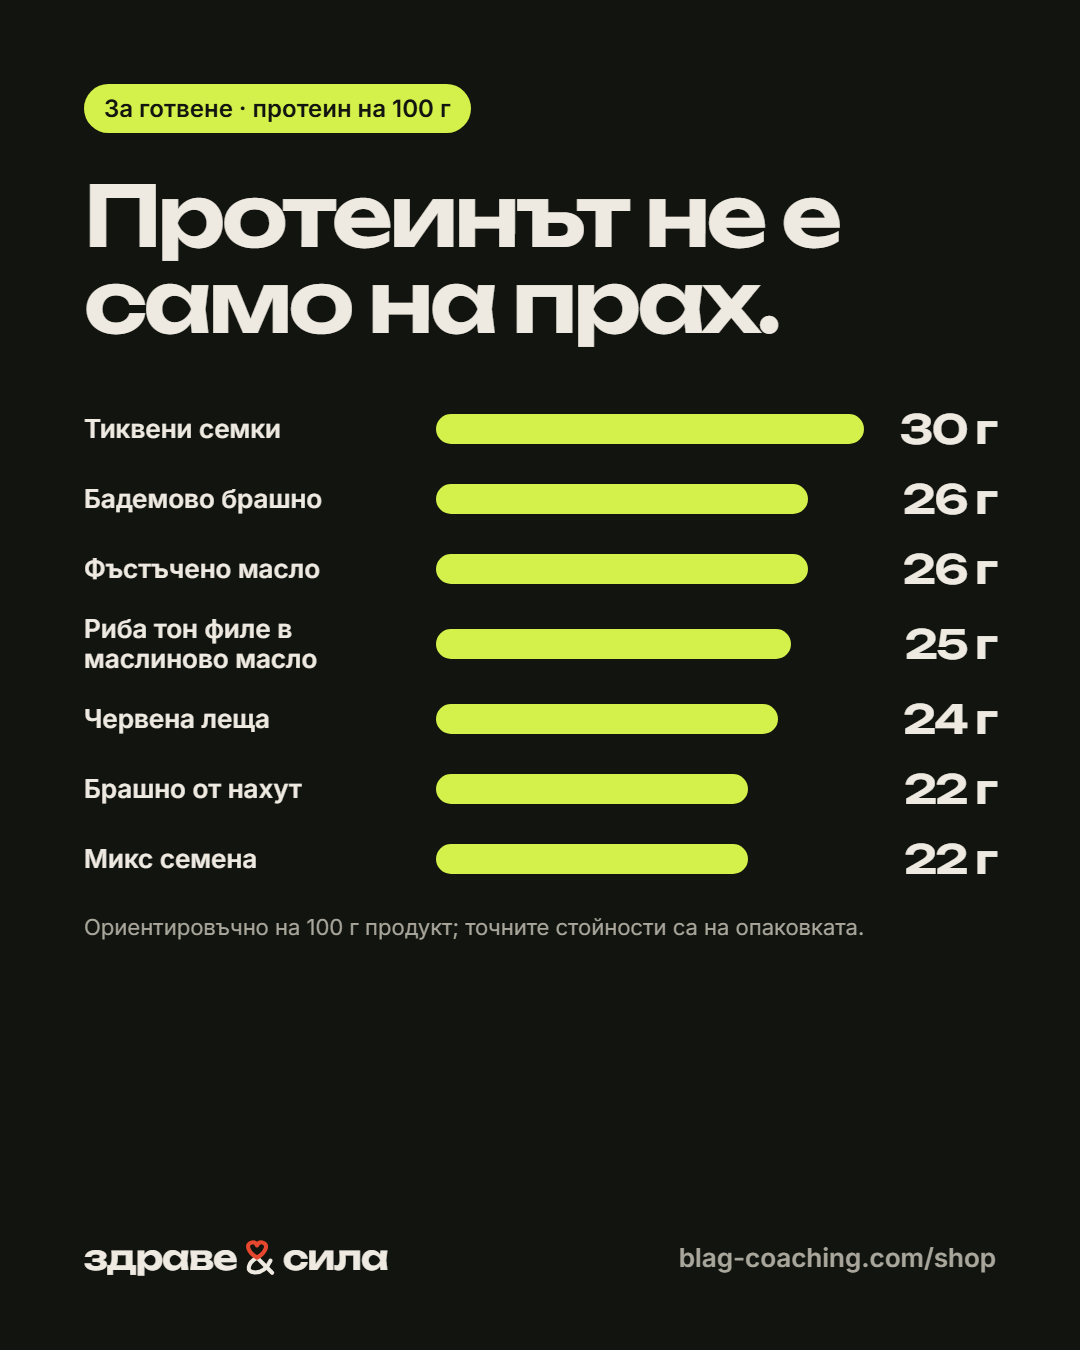
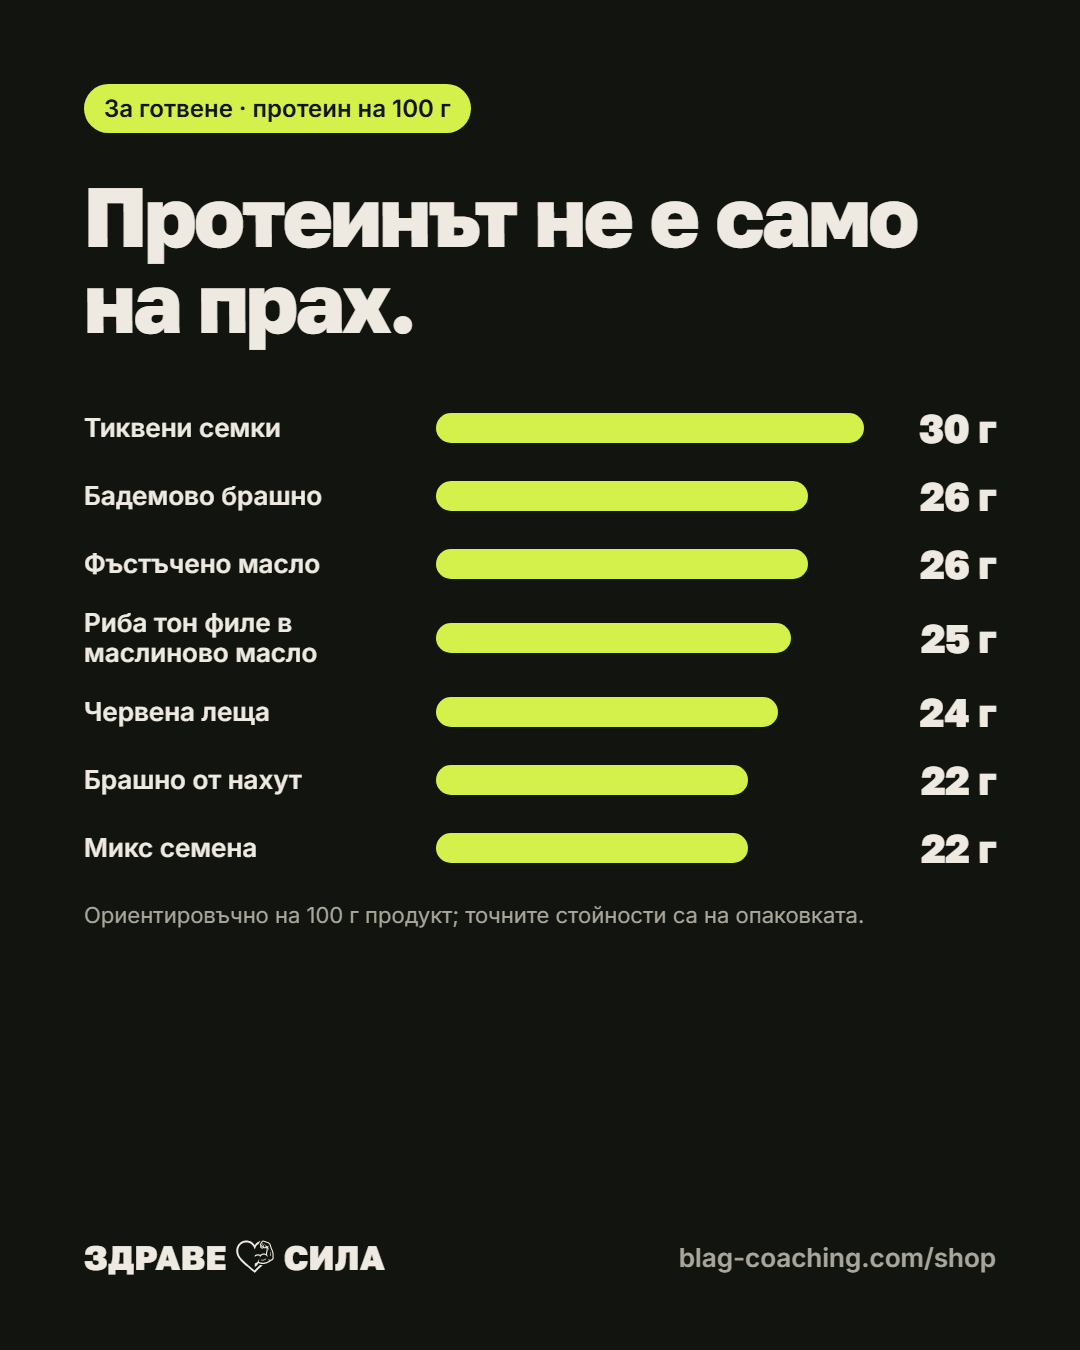
Магазин: листът е над долната лента; постовете и og.png с новия знак
- На телефона долната лента (NavBar, z-index 100) застъпваше бутона
  най-долу в листа — „Покажи N продукта“ във филтрите и „Добави“ при
  избор на вкус — и той не се натискаше. Листът вече е на 110. Двата
  mobile теста, които падаха от 24.10, минават (16/16).
- Постовете и картинката за споделяне (og.png) са със знака сърце-ръка и
  „ЗДРАВЕ И СИЛА“ в Golos Text; Unbounded и амперсандът са махнати.

Claude-Session: https://claude.ai/code/session_01EQMiKfBy3otTZWt7iKtyxo

diff --git a/shop/brand/social/posts.html b/shop/brand/social/posts.html
@@ -2,11 +2,11 @@
 <html lang="bg">
 <head>
 <meta charset="utf-8">
-<title>здраве&amp;сила — постове</title>
+<title>здраве и сила — постове</title>
 <!-- Платната за постовете и картинката за споделяне. Рисува ги
      scripts/build-shop-art.mjs; числата идват от shop_products в базата
      (window.DATA), не са написани на ръка. -->
-<link rel="stylesheet" href="https://fonts.googleapis.com/css2?family=Inter:wght@400;500;600;700&family=Unbounded:wght@500;600;700&display=swap">
+<link rel="stylesheet" href="https://fonts.googleapis.com/css2?family=Inter:wght@400;500;600;700&family=Golos+Text:wght@700;800&display=swap">
 <style>
   :root { --oat:#EEEAE1; --ink:#12140F; --ink2:#57584F; --lime:#D4F04A; --heart:#E5482F; --stage:#F6F3EC; --card:#fff; }
   * { box-sizing: border-box; margin: 0; }
@@ -14,38 +14,34 @@
   .board { position: relative; overflow: hidden; background: var(--oat); flex: none; }
   .post { width: 1080px; height: 1350px; padding: 84px; }
   .og { width: 1200px; height: 630px; padding: 64px; }
-  .disp { font-family: Unbounded, sans-serif; font-weight: 600; letter-spacing: -0.045em; line-height: 1.02; }
+  .disp { font-family: 'Golos Text', sans-serif; font-weight: 800; letter-spacing: -0.03em; line-height: 1.02; }
   .hl { background: linear-gradient(transparent 58%, var(--lime) 58%, var(--lime) 92%, transparent 92%); }
   .foot { position: absolute; left: 84px; right: 84px; bottom: 72px; display: flex; justify-content: space-between; align-items: center; font-size: 26px; font-weight: 600; color: var(--ink2); }
-  .word { display: inline-flex; align-items: center; gap: 2px; font-family: Unbounded; font-weight: 600; letter-spacing: -0.03em; color: var(--ink); }
-  .mark .h { stroke: var(--heart); } .mark .l { stroke: var(--ink); }
+  .word { display: inline-flex; align-items: center; gap: 0.22em; font-family: 'Golos Text'; font-weight: 800; letter-spacing: 0.01em; color: var(--ink); line-height: 1; }
+  .mark { fill: #173F2E; }
   .stage { background: var(--stage); border-radius: 36px; display: grid; place-items: center; overflow: hidden; }
   .stage { position: relative; } .stage img { position: absolute; inset: 4%; width: 92%; height: 92%; object-fit: contain; mix-blend-mode: multiply; }
   .chip { display: inline-block; padding: 10px 20px; border-radius: 999px; background: var(--card); font-size: 24px; font-weight: 600; }
   .lime { background: var(--lime); }
   .inkbg { background: var(--ink); color: var(--oat); }
-  .inkbg { --leg: #EEEAE1; } .inkbg .word, .inkbg .disp { color: var(--oat); } .inkbg .mark .l { stroke: var(--oat); } .inkbg .foot { color: #A9A79C; }
+  .inkbg .word, .inkbg .disp { color: var(--oat); } .inkbg .mark { fill: var(--oat); } .inkbg .foot { color: #A9A79C; }
   .photo { padding: 0; }
   .photo .ph { position: absolute; inset: 0 0 330px 0; background-size: cover; background-position: center; }
   .photo .cap { position: absolute; left: 48px; right: 48px; bottom: 48px; background: #fff; border-radius: 40px; padding: 40px 44px; }
-  .num { font-family: Unbounded; font-weight: 600; letter-spacing: -0.04em; font-variant-numeric: tabular-nums; }
+  .num { font-family: 'Golos Text'; font-weight: 800; letter-spacing: -0.02em; font-variant-numeric: tabular-nums; }
 </style>
 </head>
 <body>
 <svg width="0" height="0" style="position:absolute">
   <defs>
-    <g id="amp" fill="none" stroke-linecap="round" stroke-linejoin="round" transform="translate(-8 2)">
-      <path style="stroke:var(--leg,#12140F)" d="M118 130 C 60 162, 48 218, 102 220 C 148 222, 180 192, 200 148"/>
-      <path style="stroke:var(--leg,#12140F)" d="M118 130 L 210 222"/>
-      <path style="stroke:var(--heart)" d="M118 130 C 64 100, 44 46, 86 37 C 103 34, 114 44, 118 56 C 122 44, 133 34, 150 37 C 192 46, 172 100, 118 130"/>
-    </g>
+    <path id="zs" fill-rule="evenodd" d="M333 202C340.6 201.5 347.7 201.2 356 201.7C364.3 202.1 374.1 203.1 383 204.8C391.9 206.5 401.3 209.1 409.6 212C417.9 214.9 425.4 218.2 432.8 222C440.2 225.8 447.5 230.3 454 234.8C460.5 239.2 466 243.5 472 248.9C478 254.2 484.3 260.6 490.1 267C495.9 273.4 500.9 288.1 507 287.4C513.1 286.8 521.3 269.1 526.7 263C532 256.9 533.8 255.4 539 250.9C544.2 246.4 550 241.2 558 235.9C566 230.5 578.8 223.1 587 218.9C595.2 214.8 601.7 212.8 607.1 211L619.4 208L583.1 264C573 276.7 564.7 278.8 559 284C553.3 289.2 552.2 290.8 548.6 295C545.1 299.2 542.1 302.2 537.8 309C533.4 315.8 527.8 325.2 522.6 336L507 373.6L488.4 332C484.1 322.9 485.1 324.8 481.5 319C477.8 313.2 471.8 303.7 466.4 297C461 290.3 455.9 284.6 449 278.5C442.1 272.5 433 265.6 425 260.6C417 255.7 409 251.8 401 248.6C393 245.5 385.3 243.3 377 241.7C368.7 240 360.2 239 351 238.8C341.8 238.6 331.2 239.2 322 240.5C312.8 241.9 304.7 243.7 296 246.7C287.3 249.7 277.5 254.4 270 258.6C262.5 262.7 257.5 266.2 251 271.5C244.5 276.7 237.2 283.1 231 290C224.8 296.9 218 306.3 213.6 313C209.1 319.7 207 324.8 204.6 330C202.1 335.2 200.7 337.8 198.7 344C196.7 350.2 193.9 359.5 192.4 367C190.9 374.5 190.2 382 189.7 389C189.2 396 189.3 402 189.6 409C190 416 190.6 423.7 191.8 431C192.9 438.3 194.5 445.8 196.5 453C198.5 460.2 201.1 467.3 203.7 474C206.4 480.7 208.7 485.8 212.5 493C216.3 500.2 222.3 510.2 226.7 517C231 523.8 234.2 528 238.7 534C243.3 540 248.2 546.3 253.9 553C259.5 559.7 262.5 563.6 272.7 574C282.8 584.4 300.1 601.6 315 615.3C329.9 629 330.5 629.7 362 656.2C393.5 682.8 480 754.9 504 774.5C528 794.1 500.8 779.6 505.9 774C511.1 768.4 526.3 750.3 534.8 741C543.3 731.7 549.1 725.9 557 718.2C564.9 710.6 573.3 702.6 582 694.9C590.7 687.1 599 675.1 609 671.8C619 668.5 633.1 674.6 642 675.3L662.2 676L595 733.6C577.9 749.1 571.1 756.6 559.4 769C547.7 781.4 532.3 800 524.7 808C517.1 816 516.8 815.2 514 817.3C511.2 819.3 510.7 820.4 508 820.3C505.3 820.1 501.3 818 498 816.2C494.7 814.3 511 828.1 488 809.3C465 790.5 391.3 729.6 360 703.4C328.7 677.2 317.5 667.9 300 652.2C282.5 636.6 268 622.8 255 609.6C242 596.5 231.7 584.9 222 573.3C212.3 561.7 203.2 549.1 196.8 540C190.4 530.9 187.3 525.3 183.7 519C180 512.7 177.4 507.5 174.7 502C172.1 496.5 170.1 492 167.8 486C165.5 480 162.9 472.8 160.9 466C158.9 459.2 157.1 451.8 155.8 445C154.4 438.2 153.6 432.5 152.9 425C152.1 417.5 151.5 408.2 151.5 400C151.5 391.8 152 383.7 152.9 376C153.8 368.3 155.1 361.2 156.8 354C158.4 346.8 160.2 340.2 162.8 333C165.3 325.8 168.2 318.5 172 311C175.7 303.5 180.7 294.9 185 288.2C189.3 281.6 192.8 276.9 197.8 271C202.8 265.1 209.3 258.2 215 252.8C220.7 247.4 226.2 243 232 238.6C237.8 234.3 243.3 230.6 250 226.8C256.7 223 265 218.7 272 215.7C279 212.7 285.7 210.7 292 208.8C298.3 207 303.2 205.9 310 204.7C316.8 203.6 325.3 202.5 333 202ZM667.1 204C671 203.8 675.9 203.6 682 204.7C688.1 205.8 697.8 208.9 704 210.8C710.2 212.6 709.3 212 719 215.7C728.7 219.4 751.9 228.5 761.9 233C771.9 237.5 773.8 239.4 779 242.8C784.2 246.1 789.3 249.9 793 252.9C796.7 256 798.6 258 801.1 261C803.6 264 806.1 267.3 808.2 271C810.2 274.7 809.8 272.8 813.2 283C816.6 293.2 821.6 312.5 828.6 332C835.6 351.5 849.4 383.7 855.3 400C861.3 416.3 862 421 864.1 430C866.3 439 867.3 446 868.2 454C869.2 462 869.8 467.8 870 478C870.2 488.2 868.9 505.3 869.2 515C869.5 524.7 871.7 530 871.7 536C871.7 542 870.2 547.2 869.2 551C868.3 554.8 867.6 556.2 866.1 559C864.6 561.8 862.5 565.2 860.2 568C857.9 570.8 855.2 573.5 852.2 576C849.2 578.5 849 579.2 842 583.3C835 587.4 821.7 593.7 810 600.5C798.3 607.3 781.5 618.7 772 624.1C762.5 629.6 760.7 630 753 633.2C745.3 636.4 733.7 640.7 726 643.3C718.3 645.8 713 646.9 707 648.2C701 649.6 696 650.4 690 651.2C684 652 676.7 652.6 671 652.9C665.3 653.2 664.8 653.6 656 653C647.2 652.4 631 651.4 618 649.2C605 647 587.3 637.4 578 639.7C568.7 642 567.2 656.3 562 663C556.8 669.7 552.4 674.4 546.8 680C541.1 685.6 533.5 692 528 696.4C522.5 700.7 517.5 704 514 706.2L507 709.6L507 649.3C511.2 636.9 525.7 639.3 532 635.3C538.3 631.3 540.9 629 545 625.4C549.1 621.9 553.4 617.4 556.7 614C559.9 610.6 561.2 609.2 564.4 605C567.5 600.8 571 596.8 575.4 589C579.9 581.2 588.2 563.6 591 558.5C593.8 553.4 591.8 557.1 592 558.3C592.2 559.6 592.3 561.9 592.2 566C592 570.1 591.8 577.7 591.1 583C590.5 588.3 589.2 593.8 588.1 598C587 602.2 585.1 606 584.6 608C584.1 610 581.4 608.4 585 610.1C588.6 611.9 598.2 616 606 618.5C613.8 621 623.7 623.8 632 625.3C640.3 626.9 648.2 627.5 656 627.9C663.8 628.3 671.2 628.4 679 627.8C686.8 627.2 693.7 626.6 703 624.4C712.3 622.2 725.8 617.9 735 614.5C744.2 611.1 749.3 608.8 758 604.3C766.7 599.7 782.2 590.3 787 587.2C791.8 584.1 788.3 586.3 787 585.6C785.7 584.9 782.2 584.5 779 583.1C775.8 581.7 770.9 579.1 768 577.2C765.1 575.4 762.9 573.4 761.6 572C760.3 570.6 759.6 569.6 760 568.9C760.4 568.2 760.5 567.4 764 567.8C767.5 568.2 776 570.6 781 571.4C786 572.2 789.7 572.5 794 572.4C798.3 572.4 803.5 571.9 807 571.4C810.5 570.9 811.7 570.5 815 569.4C818.3 568.2 823.7 565.9 827 564.3C830.3 562.6 832.4 561.4 835 559.4C837.6 557.3 840.4 554.7 842.5 552C844.6 549.3 846.6 546 847.6 543C848.5 540 848.7 538.5 848.4 534C848.1 529.5 846 522.5 845.8 516C845.6 509.5 847.2 502.3 847.4 495C847.7 487.7 847.7 478.5 847.5 472C847.3 465.5 847 461.7 846.3 456C845.6 450.3 845.1 445.8 843.2 438C841.4 430.2 841.3 425.8 835.4 409C829.5 392.2 815.3 358.2 807.8 337C800.3 315.8 794.3 292.7 790.3 282C786.3 271.3 786.3 275.6 784.1 273C781.8 270.4 781.8 269.9 777 266.5C772.2 263 766 257.7 755 252.4C744 247.1 724 239.2 711 234.5C698 229.9 684.3 226.1 677 224.4C669.7 222.8 670 223.9 667 224.6C664 225.4 661.2 227.3 658.9 229C656.7 230.7 658.4 228.3 653.7 235C649 241.7 635.3 262 630.8 269C626.3 276 627.6 274.5 626.8 277C625.9 279.5 625.7 281.8 625.8 284C626 286.2 626.6 288 627.8 290C629.1 292 631.9 294.8 633.4 296C634.8 297.2 635.2 298.7 636.4 297C637.6 295.3 638.7 290 640.6 286C642.5 282 644.2 278.6 647.8 273C651.3 267.4 659 256.3 662 252.2C665 248.1 665.1 249 666 248.4C666.9 247.9 667.1 248.6 667.4 249C667.8 249.4 668 249.8 668 251C667.9 252.2 669.7 249.7 667.2 256C664.6 262.3 655.5 281.8 652.6 289C649.7 296.2 650.1 296.3 649.7 299C649.4 301.7 650.1 303.5 650.5 305C650.8 306.5 650.6 306.6 652 308C653.4 309.4 656.7 312.2 659 313.4C661.3 314.7 664.7 316.8 666 315.6C667.3 314.4 666.2 309.3 667 306.2C667.8 303.1 667.6 303 670.9 297C674.2 291 683 275.7 686.9 270C690.7 264.3 692.5 263.9 694 263C695.5 262.2 695.8 263.8 696 265C696.2 266.2 697.8 263 695.3 270C692.7 277 683.3 299.8 680.7 307C678 314.2 679.6 311.2 679.5 313C679.5 314.8 680 316.5 680.5 318C681.1 319.5 680.8 320 683 321.9C685.2 323.8 691.2 327.8 694 329.4C696.8 331 697.8 331 700 331.4C702.2 331.7 704.8 332 707 331.5C709.2 331 711.1 329.9 713 328.3C714.9 326.7 717.2 324.1 718.4 322C719.7 319.9 720.5 317.5 720.5 316C720.4 314.5 718.9 313.5 718 312.8C717.1 312.1 717 311.1 715 311.8L706 316.4L706 313.8C705.4 312.9 703 311.8 702.2 311C701.4 310.2 700.5 309.9 701.3 309C702.1 308.1 705.3 306.8 707 305.4C708.7 304.1 709.7 304 711.5 301C713.4 298 716.5 289.8 718 287.1C719.5 284.5 719.4 285 720.3 285C721.2 285 722.8 284.7 723.5 287C724.2 289.3 722.5 295.2 724.5 299C726.4 302.8 731.9 306.9 735 309.5C738.1 312.1 740.7 313.5 743 314.5C745.3 315.5 746.8 315.5 749 315.5C751.2 315.5 753.7 315.3 756 314.5C758.3 313.6 760.4 312.4 763 310.3C765.6 308.2 769.7 303.4 771.5 302C773.3 300.6 773.4 301.7 774 301.8C774.6 302 775.1 301.6 775.3 303C775.5 304.4 775.6 307.5 775.1 310C774.6 312.5 774.4 314.8 772.3 318C770.2 321.2 763.2 325.2 762.5 329C761.8 332.8 766.4 336 768.1 341C769.9 346 772 353 773.1 359C774.3 365 774.9 371.3 775.1 377C775.3 382.7 774.6 390.1 774.2 393L773 394.4L768.4 377C766.5 371.3 763.5 364.5 761.5 360C759.4 355.5 757.3 351.9 756.3 350C755.2 348.1 755.4 348.5 755 348.3C754.6 348.2 753.9 345.4 754 349C754.1 352.6 755.5 362.8 755.7 370C755.9 377.2 755.7 385.3 755.1 392C754.5 398.7 753.8 402 752.1 410C750.4 418 746.3 432 744.7 440C743.2 448 742.9 452.5 742.7 458C742.6 463.5 742.9 468.2 743.7 473C744.5 477.8 745.4 481.8 747.6 487C749.7 492.2 753.4 499 756.8 504L767.6 517L762 516.3C759.1 515.2 755.8 514.6 750 510.4C744.2 506.1 733.2 495.4 727 490.7C720.8 486.1 718 484.8 713 482.5C708 480.1 702.5 478 697 476.7C691.5 475.4 684.8 474.8 680 474.7C675.2 474.5 671.3 475.2 668 475.7C664.7 476.2 663.2 476.6 660 477.7C656.8 478.9 652.5 480.6 649 482.4C645.5 484.3 642.2 486.5 639 488.9C635.8 491.4 632.5 494.1 629.5 497C626.5 499.9 624.9 501.1 621 506.5C617.1 511.9 608.7 525.6 606 529.2C603.3 532.7 605 530 604.6 528C604.3 526 603.5 521.3 603.8 517C604.2 512.7 609.1 505.7 606.8 502C604.5 498.3 595.3 496.4 590 494.7C584.7 493 580.8 492.2 575 491.8C569.2 491.5 560.7 491.8 555 492.5C549.3 493.3 546.3 494.2 541 496.6C535.7 498.9 528.7 502.4 523 506.5L506.9 521L507 487.4C510 480 519.8 479.4 525 476.8C530.2 474.2 533.5 473.2 538 471.8C542.5 470.5 545.8 469.3 552 468.7C558.2 468.1 568.2 467.8 575 468.1C581.8 468.4 586.3 469 593 470.7C599.7 472.3 609 478.5 615 477.9C621 477.3 625 469.7 629 466.9C633 464 635.5 462.6 639 460.8C642.5 458.9 646.2 457.3 650 456C653.8 454.6 657.5 453.5 662 452.7C666.5 451.9 672.2 451.4 677 451.2C681.8 451.1 686.2 451.2 691 451.8C695.8 452.4 701.3 453.5 706 454.8C710.7 456.1 716.6 458.8 719 459.5C721.4 460.2 719.7 462.9 720.3 459C720.9 455.1 720.9 445.7 722.7 436C724.6 426.3 729.5 409.8 731.4 401C733.3 392.2 733.8 389 734.3 383C734.7 377 734.9 372.1 734.2 365L730 340.3L716.8 349C712.8 350.9 709.5 351.5 706 351.9C702.5 352.2 700.8 352.3 696 351.1C691.2 349.9 682.3 343.7 677 344.5C671.7 345.3 667.5 353.5 664 356C660.5 358.5 658.3 358.6 656 359.3C653.7 359.9 652.7 360.1 650 359.8C647.3 359.4 644.7 359.3 640 357C635.3 354.7 625.7 348.8 621.6 346C617.6 343.2 617.3 342.7 615.7 340C614.1 337.3 612.5 333.2 611.9 330C611.2 326.8 611.1 324.7 611.8 321C612.4 317.3 616.1 311.8 615.7 308C615.2 304.2 610.6 301.3 609 298C607.3 294.7 606.2 291.7 605.6 288C605.1 284.3 605.1 279.7 605.7 276C606.2 272.3 606.1 271.3 608.9 266C611.7 260.7 617.2 252.2 622.7 244C628.2 235.8 636.9 222.9 641.8 217C646.7 211.1 649.1 210.6 652 208.7C654.9 206.8 656.5 206.5 659 205.8C661.5 205 663.3 204.2 667.1 204ZM635 318.7C633.4 318.3 633.1 320.1 632.5 321C631.9 321.9 631.6 323 631.5 324C631.4 325 631.4 326 631.9 327C632.3 328 631 327.9 634 330.1C637 332.3 646.7 338.5 650 340.1C653.3 341.7 652.7 340.2 654 339.5C655.3 338.8 656.8 337.1 657.5 336C658.3 334.9 658.8 334.2 658.4 333C658 331.8 657.7 330.5 655 328.9C652.3 327.2 645.3 325 642 323.3C638.7 321.6 636.6 319 635 318.7ZM805.7 413L808 414.2C808.9 415.2 809.7 415.7 811.2 419C812.7 422.3 815.6 429.3 817.1 434C818.6 438.7 819.5 442.2 820.1 447C820.7 451.8 821.1 457.8 820.7 463C820.4 468.2 819.4 473.5 818.2 478C816.9 482.5 815 486.7 813.1 490C811.2 493.3 808.5 496.3 806.8 498C805.1 499.7 804.2 499.8 803 500.3C801.8 500.8 800.3 501 799.4 501C798.5 501 798 500.5 797.6 500C797.2 499.5 795.9 501.2 797 498C798.1 494.8 802.4 487.3 804.3 481C806.2 474.7 807.8 466.8 808.5 460C809.2 453.2 809.1 447.8 808.6 440L805.7 413ZM727.8 544C731.5 541.7 728.8 543.6 729 543.8C729.2 543.9 729.8 543.3 729 545C728.2 546.7 725.8 551.5 724.4 554C722.9 556.5 722.2 557.6 720.2 560C718.1 562.4 715.5 565.3 712 568.2C708.5 571.1 703.8 574.6 699 577.3C694.2 580 688.2 582.6 683 584.2C677.8 585.9 673.2 586.7 668 587.2C662.8 587.7 656.7 587.5 652 587.1C647.3 586.8 643.7 586 640 585.1C636.3 584.3 632.2 582.9 630 582C627.8 581.1 627.5 580.8 626.6 580C625.8 579.2 625.1 578 625 577C624.8 576 625 574.9 625.7 574C626.3 573.1 622.8 572 629 571.5C635.2 571 655.2 571.4 663 571.1C670.8 570.7 671.5 570.3 676 569.4C680.5 568.4 684.8 567.4 690 565.5C695.2 563.5 700.7 561.1 707 557.5C713.3 553.9 724.2 546.3 727.8 544Z"/>
   </defs>
 </svg>
 
 <!-- 1 · Знакът -->
 <section id="p1" class="board post lime">
-  <svg class="mark" viewBox="0 0 256 256" width="560" height="560" style="position:absolute;right:40px;top:150px"><use href="#amp" stroke-width="25"/></svg>
-  <p class="disp" style="font-size:120px;position:absolute;left:84px;bottom:330px">здраве<br><span style="color:var(--heart)">&amp;</span>сила</p>
+  <svg class="mark" viewBox="108.3 115.6 806.6 806.6" width="560" height="560" style="position:absolute;right:40px;top:150px"><use href="#zs"/></svg>
+  <p class="disp" style="font-size:120px;position:absolute;left:84px;bottom:360px;letter-spacing:0;line-height:0.95">ЗДРАВЕ<br>И СИЛА</p>
   <p style="position:absolute;left:84px;bottom:230px;font-size:40px;font-weight:600;max-width:760px;line-height:1.25">Добавки и храна — с цената на доза до всеки продукт.</p>
   <div class="foot" style="color:var(--ink)"><span>blag-coaching.com/shop</span><span>Еконт · Спиди · до вратата в София</span></div>
 </section>
@@ -56,7 +52,7 @@
   <h1 class="disp" style="font-size:88px;max-width:880px">Сравнявай <span class="hl">дозата</span>, не кутията.</h1>
   <div id="doses" style="margin-top:64px;display:flex;flex-direction:column;gap:22px"></div>
   <p style="margin-top:34px;font-size:24px;color:var(--ink2);max-width:860px">Цената на кутията делено на дозите в нея. До всеки продукт в магазина е сметната така.</p>
-  <div class="foot"><span class="word" style="font-size:34px">здраве<svg class="mark" viewBox="0 0 256 256" width="42" height="42"><use href="#amp" stroke-width="25"/></svg>сила</span><span>blag-coaching.com/shop</span></div>
+  <div class="foot"><span class="word" style="font-size:34px">ЗДРАВЕ<svg class="mark" viewBox="108.3 115.6 806.6 806.6" width="42" height="42"><use href="#zs"/></svg>СИЛА</span><span>blag-coaching.com/shop</span></div>
 </section>
 
 <!-- 3 · Протеин на 100 г в храната -->
@@ -65,7 +61,7 @@
   <h1 class="disp" style="font-size:84px;max-width:900px">Протеинът не е само на прах.</h1>
   <div id="bars" style="margin-top:60px;display:flex;flex-direction:column;gap:20px"></div>
   <p style="margin-top:30px;font-size:22px;color:#A9A79C">Ориентировъчно на 100 г продукт; точните стойности са на опаковката.</p>
-  <div class="foot"><span class="word" style="font-size:34px">здраве<svg class="mark" viewBox="0 0 256 256" width="42" height="42"><use href="#amp" stroke-width="25"/></svg>сила</span><span>blag-coaching.com/shop</span></div>
+  <div class="foot"><span class="word" style="font-size:34px">ЗДРАВЕ<svg class="mark" viewBox="108.3 115.6 806.6 806.6" width="42" height="42"><use href="#zs"/></svg>СИЛА</span><span>blag-coaching.com/shop</span></div>
 </section>
 
 <!-- 4 · Седмицата в една количка -->
@@ -73,12 +69,12 @@
   <p class="chip" style="margin-bottom:40px">Готвене за седмицата</p>
   <h1 class="disp" style="font-size:72px;max-width:900px">Основата на кутиите — <span class="hl">с макросите</span> до всяко.</h1>
   <div id="pantry" style="margin-top:44px;display:grid;grid-template-columns:repeat(3,1fr);gap:20px"></div>
-  <div class="foot"><span class="word" style="font-size:34px">здраве<svg class="mark" viewBox="0 0 256 256" width="42" height="42"><use href="#amp" stroke-width="25"/></svg>сила</span><span id="pcount"></span></div>
+  <div class="foot"><span class="word" style="font-size:34px">ЗДРАВЕ<svg class="mark" viewBox="108.3 115.6 806.6 806.6" width="42" height="42"><use href="#zs"/></svg>СИЛА</span><span id="pcount"></span></div>
 </section>
 
 <!-- 5 · Доставката -->
 <section id="p5" class="board post">
-  <svg class="mark" viewBox="0 0 256 256" width="150" height="150" style="margin-bottom:40px"><use href="#amp" stroke-width="25"/></svg>
+  <svg class="mark" viewBox="108.3 115.6 806.6 806.6" width="150" height="150" style="margin-bottom:40px"><use href="#zs"/></svg>
   <h1 class="disp" style="font-size:112px">Поръчай<br>до <span class="hl">15:00</span> —<br>тръгва днес.</h1>
   <div id="deliv" style="margin-top:70px;display:flex;flex-direction:column;gap:18px"></div>
   <div class="foot"><span>Плащане с карта през Stripe</span><span>blag-coaching.com/shop</span></div>
@@ -95,8 +91,8 @@
   <div id="ogimgs" style="position:absolute;right:40px;top:40px;width:520px;height:550px">
     <div style="position:absolute;inset:30px;border-radius:50%;background:var(--lime)"></div>
   </div>
-  <p class="word" style="font-size:44px;position:relative">здраве<svg class="mark" viewBox="0 0 256 256" width="54" height="54"><use href="#amp" stroke-width="25"/></svg>сила</p>
-  <h1 class="disp" style="font-size:64px;margin-top:70px;max-width:620px;position:relative">Добавки <svg class="mark" viewBox="0 0 256 256" width="96" height="96" style="vertical-align:-0.32em;margin:0 -6px"><use href="#amp" stroke-width="25"/></svg> храна.</h1>
+  <p class="word" style="font-size:44px;position:relative">ЗДРАВЕ<svg class="mark" viewBox="108.3 115.6 806.6 806.6" width="54" height="54"><use href="#zs"/></svg>СИЛА</p>
+  <h1 class="disp" style="font-size:64px;margin-top:70px;max-width:620px;position:relative">Добавки и храна.</h1>
   <p style="position:absolute;left:64px;bottom:56px;font-size:24px;font-weight:600;color:var(--ink2)">Цената на доза и макросите — до всеки продукт.</p>
 </section>
 
@@ -167,7 +163,7 @@
             <div class="num" style="font-size:64px;white-space:nowrap">${eur(p.price_cents)}</div>
           </div>
           <div style="display:flex;justify-content:space-between;align-items:center;margin-top:28px;padding-top:24px;border-top:2px solid #EEEAE1;font-size:26px;font-weight:600;color:var(--ink2)">
-            <span class="word" style="font-size:32px">здраве<svg class="mark" viewBox="0 0 256 256" width="40" height="40"><use href="#amp" stroke-width="25"/></svg>сила</span><span>blag-coaching.com/shop</span>
+            <span class="word" style="font-size:32px">ЗДРАВЕ<svg class="mark" viewBox="108.3 115.6 806.6 806.6" width="40" height="40"><use href="#zs"/></svg>СИЛА</span><span>blag-coaching.com/shop</span>
           </div>
         </div>`
     }

diff --git a/src/shop/Shop.module.css b/src/shop/Shop.module.css
@@ -772,7 +772,9 @@
 
 /* ── Лист (филтри, бързо добавяне) ─────────────────────────────────────── */
 
-.sheetWrap { position: fixed; inset: 0; z-index: 60; }
+/* Над долната лента на приложението (NavBar, z-index 100) — иначе на телефона
+   тя застъпва бутона „Покажи N продукта“ / „Добави“ най-долу в листа (28.10). */
+.sheetWrap { position: fixed; inset: 0; z-index: 110; }
 
 .scrim {
   position: absolute;
